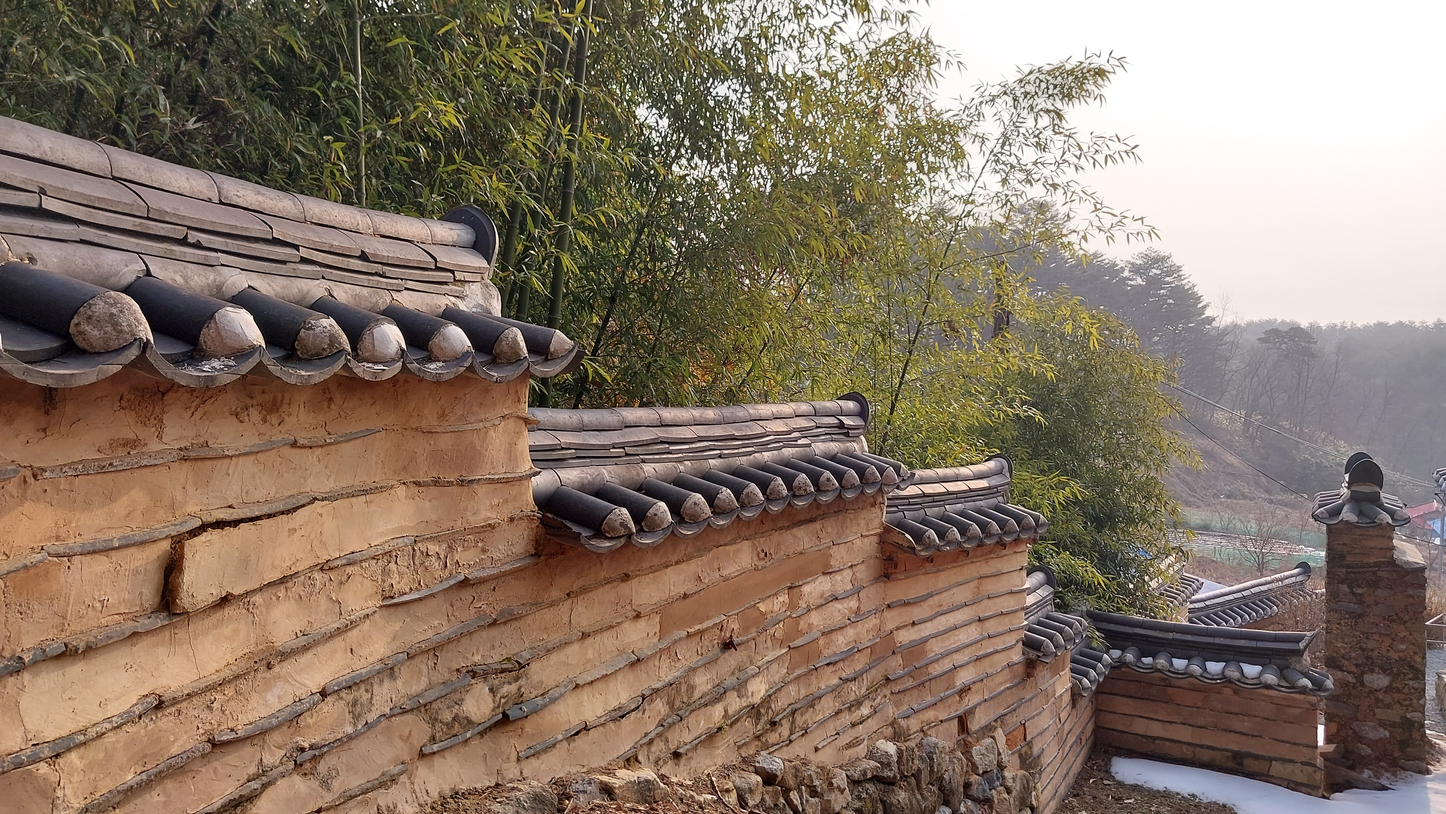
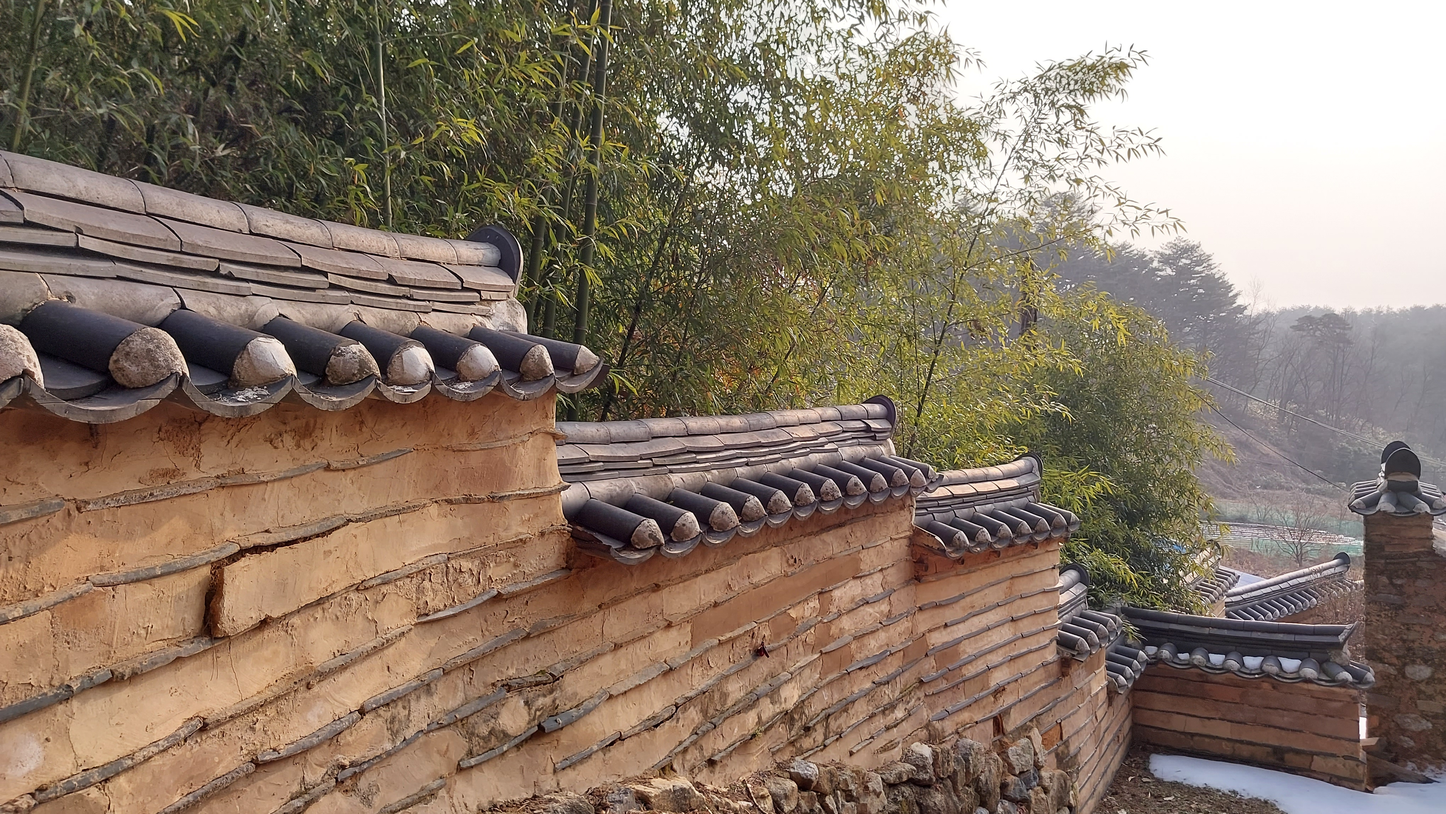
홈 메인 페이지 수정: hero background-position 인라인 추가, 이미지 교체

diff --git a/index.html b/index.html
@@ -524,7 +524,7 @@
 
   <div class="hero-track" id="heroTrack">
     <div class="hero-slide active">
-      <div class="hero-bg" style="background-image:url('images/home-hero/hero-1.jpg');background-color:#dedad5"></div>
+      <div class="hero-bg" style="background-image:url('images/home-hero/hero-1.jpg');background-color:#dedad5;background-position:center 80%"></div>
       <div class="hero-overlay"></div>
       <div class="hero-content">
         <div class="hero-label">강원특별자치도 유형문화유산</div>
@@ -533,30 +533,30 @@
       </div>
     </div>
     <div class="hero-slide">
-      <div class="hero-bg" style="background-image:url('images/home-hero/hero-2.jpg');background-color:#d5d8da"></div>
+      <div class="hero-bg" style="background-image:url('images/home-hero/hero-2.jpg');background-color:#d5d8da;background-position:center 50%"></div>
       <div class="hero-overlay"></div>
       <div class="hero-content">
-        <div class="hero-label">종중 소장 건축물</div>
-        <h1 class="hero-title">진사청<br><span style="font-size:.68em;color:rgba(255,255,255,.55)">進士廳</span></h1>
-        <p class="hero-sub">조선 후기 양반 가문의 전통 건축 양식을 간직한 진사청의 기록을 담습니다.</p>
+        <div class="hero-label">종가 행랑채 담장</div>
+        <h1 class="hero-title">선조의 양식</h1>
+        <p class="hero-sub">조선 후기 양반 가문의 건축 양식과 생활 양식을 담고 있습니다.</p>
       </div>
     </div>
     <div class="hero-slide">
-      <div class="hero-bg" style="background-image:url('images/home-hero/hero-3.jpg');background-color:#dad5cf"></div>
+      <div class="hero-bg" style="background-image:url('images/home-hero/hero-3.jpg');background-color:#dad5cf;background-position:center 60%"></div>
       <div class="hero-overlay"></div>
       <div class="hero-content">
-        <div class="hero-label">종중 문화 유적</div>
-        <h1 class="hero-title">불당재 각자바위</h1>
-        <p class="hero-sub">선조들의 자취가 새겨진 각자바위와 주변 자연 경관의 기록을 보존합니다.</p>
+        <div class="hero-label">불당재 각자바위</div>
+        <h1 class="hero-title">선조의 유적</h1>
+        <p class="hero-sub">바위를 가득 채운 각자에 선대의 풍류와 자취가 남아 있습니다.</p>
       </div>
     </div>
     <div class="hero-slide">
-      <div class="hero-bg" style="background-image:url('images/home-hero/hero-4.jpg');background-color:#d5d8d5"></div>
+      <div class="hero-bg" style="background-image:url('images/home-hero/hero-4.jpg');background-color:#d5d8d5;background-position:center center"></div>
       <div class="hero-overlay"></div>
       <div class="hero-content">
-        <div class="hero-label">소장 고문서</div>
-        <h1 class="hero-title">종가실록<br><span style="font-size:.68em;color:rgba(255,255,255,.55)">宗家實錄 · 1930</span></h1>
-        <p class="hero-sub">1930년 김규하가 저술한 종가실록을 포함, 조선 후기부터 일제강점기의 고문서를 열람하실 수 있습니다.</p>
+        <div class="hero-label">24층 윤도</div>
+        <h1 class="hero-title">선조의 유산</h1>
+        <p class="hero-sub">종가실록을 포함해 조선 후기 ~ 일제강점기까지의 고문서를 소장하고 있습니다.</p>
       </div>
     </div>
   </div>
@@ -813,6 +813,7 @@
   startTimer();
 })();
 </script>
+
 
 </body>
 </html>
